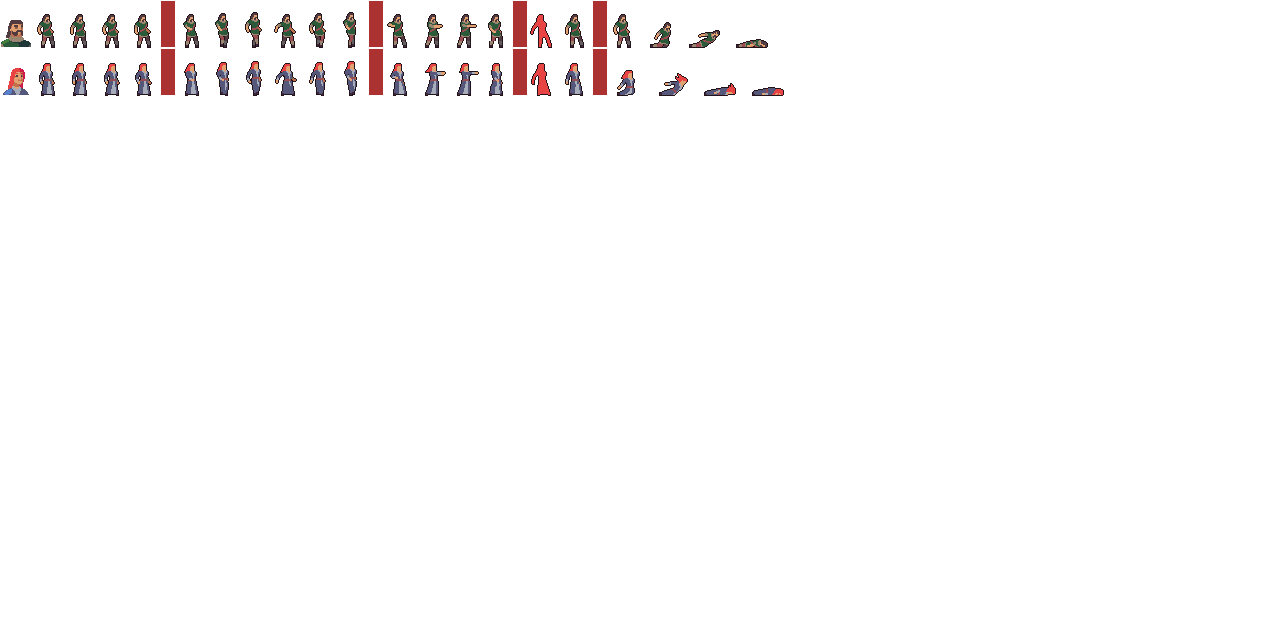
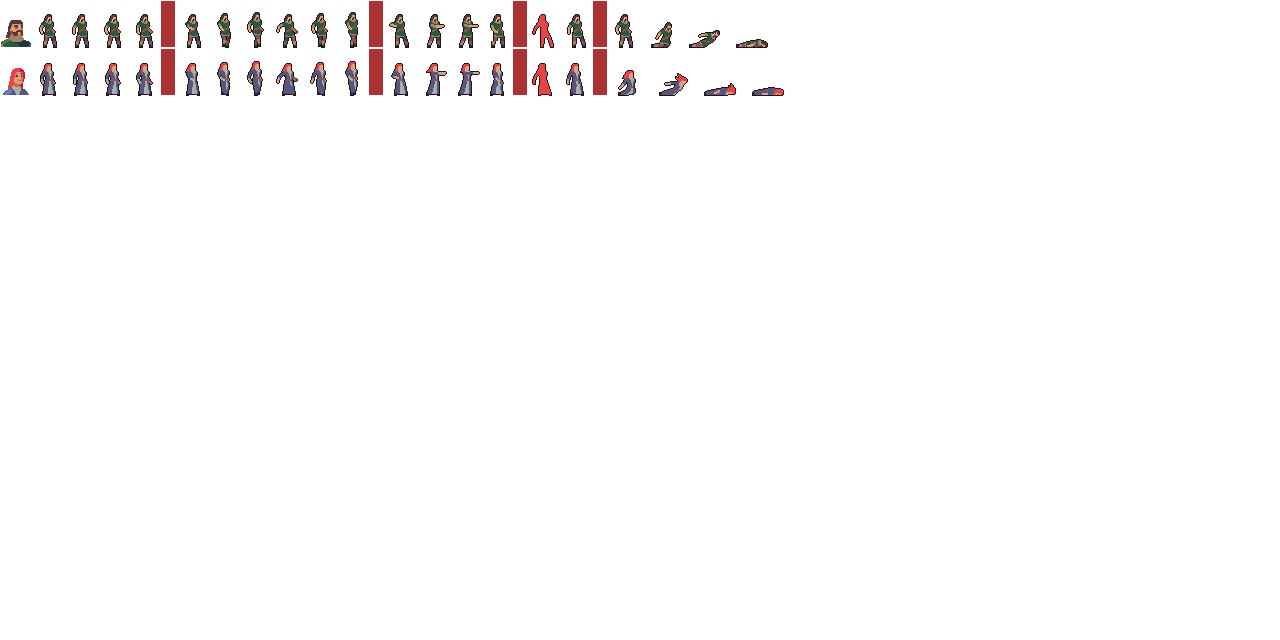
Unit hitboxes; Debug stuff

Changed region(s): [[0.0312, 0.0, 0.5312, 0.1562]]

diff --git a/game/unit.go b/game/unit.go
@@ -5,6 +5,7 @@ package game
 
 import (
 	"pure-game-kit/packages/assets"
+	"pure-game-kit/packages/geometry"
 	"pure-game-kit/packages/graphics"
 	"pure-game-kit/packages/input/keyboard"
 	"pure-game-kit/packages/input/keyboard/key"
@@ -30,7 +31,16 @@ const DutyWalkStraight, DutyUseStairs, DutyStayGarrison Duty = 0, 1, 2
 
 //=================================================================
 
-var Units []Unit
+var Units []*Unit
+
+func (u *Unit) Hitbox() geometry.Area {
+	var scale = SceneScale()
+	var char = Characters[u.Character]
+	var hitbox = char.Hitbox
+	hitbox.X, hitbox.Y = u.X+hitbox.X*scale, u.Y+hitbox.Y*scale
+	hitbox.Width, hitbox.Height = hitbox.Width*scale, hitbox.Height*scale
+	return hitbox
+}
 
 func (u *Unit) PlayIdle() {
 	u.Anim.Frames, u.Anim.Time, u.Anim.IsLooping, u.Anim.FPS = Characters[u.Character].Animations.Idle, 0, true, 3
@@ -55,12 +65,12 @@ func SpawnUnit(character Character, duty Duty, team Team) {
 	var anim = motion.NewAnimation(0, false, char.Animations.Idle...)
 	var unit = Unit{Object: graphics.NewSprite(0, 580, 1, 0), Character: character, Team: team, Duty: duty,
 		Brain: char.Brain, Stats: char.Stats, Anim: &anim}
-	Units = append(Units, unit)
+	Units = append(Units, &unit)
 }
 
 func UpdateUnits() {
 	for _, u := range Units {
-		u.Brain(&u)
+		u.Brain(u)
 
 		if keyboard.IsKeyJustPressed(key.A) {
 			u.PlayWalk()
@@ -78,6 +88,12 @@ func UpdateUnits() {
 		var _, _, w, h = frame.CropArea()
 
 		u.ImageId, u.Width, u.Height = frame, w*scale, h*scale
+
+		if Debug {
+			var hb = u.Hitbox()
+			View.DrawShape(u.X, u.Y, u.Width, u.Height, 0, 0, DebugUnitColor, geometry.Area{})
+			View.DrawShape(hb.X, hb.Y, hb.Width, hb.Height, 0, 0, DebugHitboxColor, geometry.Area{})
+		}
 		View.DrawObject(&u.Object)
 	}
 }

diff --git a/game/character.go b/game/character.go
@@ -3,7 +3,10 @@ package game
 // Defines the base stats, animations, behaviors (brain functions) etc of all characters - being a class/template.
 // The Unit copies that base data in different points in time and uses/edits it to make the character alive.
 
-import "pure-game-kit/packages/assets"
+import (
+	"pure-game-kit/packages/assets"
+	"pure-game-kit/packages/geometry"
+)
 
 type Animations struct {
 	Idle, Walk, Attack, Hurt, Die []assets.ImageId
@@ -18,6 +21,7 @@ type CharacterData struct {
 	Stats           Stats
 	Animations      Animations
 	AnimationPrefix string
+	Hitbox          geometry.Area
 
 	Brain func(self *Unit)
 }
@@ -29,10 +33,12 @@ var Characters map[Character]CharacterData = make(map[Character]CharacterData)
 func InitCharacters() {
 	var animations = assets.LoadAnimations(assets.LoadImage("data/units.png"), "data/animations.xml")
 
-	Characters[CharacterMan] = CharacterData{Stats: Stats{Name: "Man", Health: 10, Damage: 2},
-		AnimationPrefix: "man", Brain: BrainMan}
-	Characters[CharacterWoman] = CharacterData{Stats: Stats{Name: "Woman", Health: 5, Damage: 1},
-		AnimationPrefix: "woman", Brain: BrainWoman}
+	Characters[CharacterMan] = CharacterData{AnimationPrefix: "man", Brain: BrainMan,
+		Stats:  Stats{Name: "Man", Health: 10, Damage: 2},
+		Hitbox: geometry.NewArea(0, 7, 18, 35)}
+	Characters[CharacterWoman] = CharacterData{AnimationPrefix: "woman", Brain: BrainWoman,
+		Stats:  Stats{Name: "Woman", Health: 5, Damage: 1},
+		Hitbox: geometry.NewArea(0, 7, 18, 35)}
 
 	for i, c := range Characters {
 		c.Animations.Idle = animations.Frames(c.AnimationPrefix + "-idle")

diff --git a/game/debug.go b/game/debug.go
@@ -1,0 +1,16 @@
+package game
+
+import "pure-game-kit/packages/utility/color"
+
+var Debug = true
+
+var DebugUnitColor = color.TagRGBA("rgba(0, 255, 0, 0.5)")
+var DebugHitboxColor = color.TagRGBA("rgba(255, 0, 0, 0.5)")
+
+func UpdateDebug() {
+	if !Debug {
+		return
+	}
+
+	View.DrawDebugInfo(false)
+}

diff --git a/main.go b/main.go
@@ -6,7 +6,9 @@ import (
 )
 
 func main() {
-	window.Create("CombaThrone", true, true)
+	window.Create("CombaThrone", false, true)
+
+	window.SetTargetFPS(0)
 
 	game.InitCharacters()
 
@@ -14,5 +16,6 @@ func main() {
 	for window.KeepOpen() {
 		game.UpdateScene()
 		game.UpdateUnits()
+		game.UpdateDebug()
 	}
 }

diff --git a/game/scene.go b/game/scene.go
@@ -28,7 +28,7 @@ func InitScene() {
 
 	SpawnUnit(CharacterMan, DutyWalkStraight, TeamAlly)
 	SpawnUnit(CharacterWoman, DutyWalkStraight, TeamAlly)
-	Units[0].X = 200
+	Units[0].X = 180
 }
 
 func UpdateScene() {